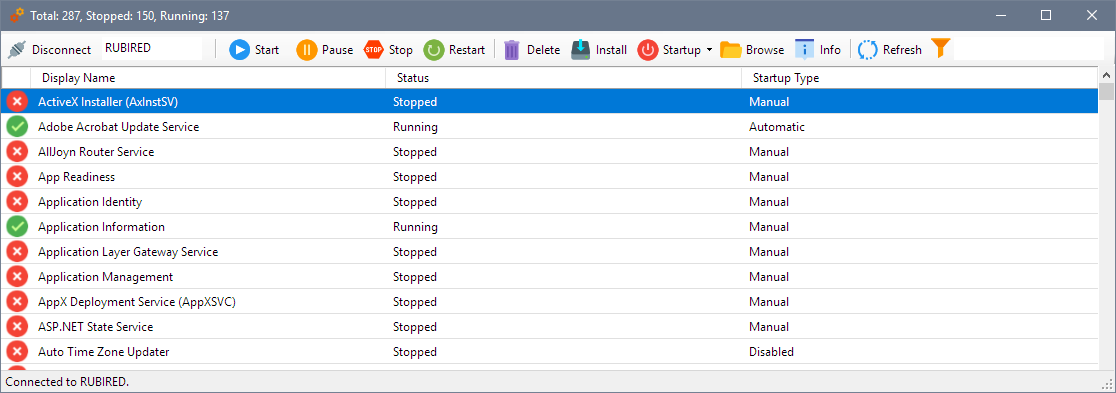
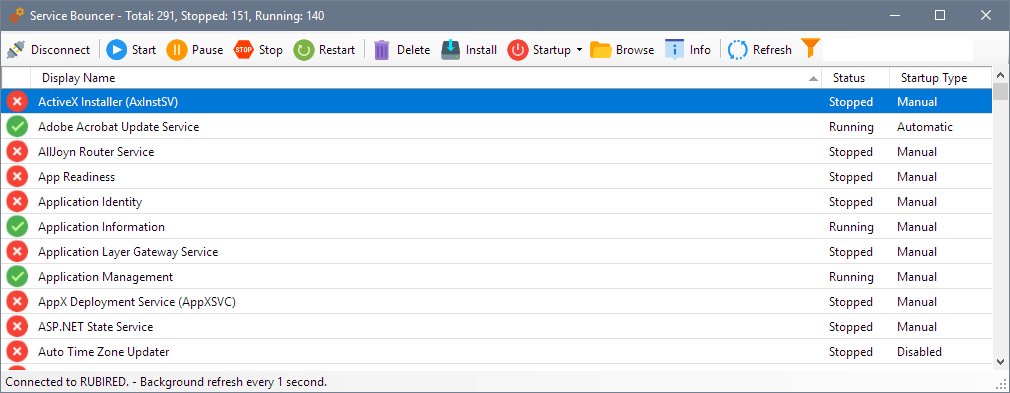
Text fixes and update documentation image

diff --git a/src/ServiceBouncer/MainForm.cs b/src/ServiceBouncer/MainForm.cs
@@ -133,7 +133,7 @@ namespace ServiceBouncer
             await PerformOperation(async x =>
             {
                 var value = await x.GetAssemblyInfo();
-                MessageBox.Show($@"Service '{x.Name}' assembly info:\n{value}", @"Assembly Info", MessageBoxButtons.OK, MessageBoxIcon.Information);
+                MessageBox.Show($@"Service '{x.Name}' assembly info:{Environment.NewLine}{value}", @"Assembly Info", MessageBoxButtons.OK, MessageBoxIcon.Information);
             });
         }
 
@@ -191,7 +191,7 @@ namespace ServiceBouncer
             catch (Exception e)
             {
                 Disconnect();
-                MessageBox.Show($@"Unable to retrieve the services from {toolStripConnectToTextBox.Text}.\nMessage: {e.Message}", @"Error", MessageBoxButtons.OK, MessageBoxIcon.Error);
+                MessageBox.Show($@"Unable to retrieve the services from {toolStripConnectToTextBox.Text}.{Environment.NewLine}Message: {e.Message}", @"Error", MessageBoxButtons.OK, MessageBoxIcon.Error);
                 return false;
             }
         }
@@ -234,7 +234,7 @@ namespace ServiceBouncer
                 var backgroundRefreshTimeText = backgroundRefreshSeconds == 1 ? "1 second" : $"{backgroundRefreshSeconds} seconds";
                 refreshTimer.Enabled = true;
                 refreshTimer.Interval = backgroundRefreshSeconds * 1000;
-                toolStripStatusLabel.Text = $@"Connected to {machineHostname}. - Background refresh every {backgroundRefreshTimeText}";
+                toolStripStatusLabel.Text = $@"Connected to {machineHostname}. - Background refresh every {backgroundRefreshTimeText}.";
 
                 foreach (ToolStripItem toolStripItem in toolStrip.Items)
                 {
@@ -301,7 +301,7 @@ namespace ServiceBouncer
                     }
                     catch (Exception e)
                     {
-                        MessageBox.Show($@"An error occured interacting with service '{model.Name}'\nMessage: {e.Message}", @"Error", MessageBoxButtons.OK, MessageBoxIcon.Error);
+                        MessageBox.Show($@"An error occured interacting with service '{model.Name}'{Environment.NewLine}Message: {e.Message}", @"Error", MessageBoxButtons.OK, MessageBoxIcon.Error);
                     }
                 }
 
